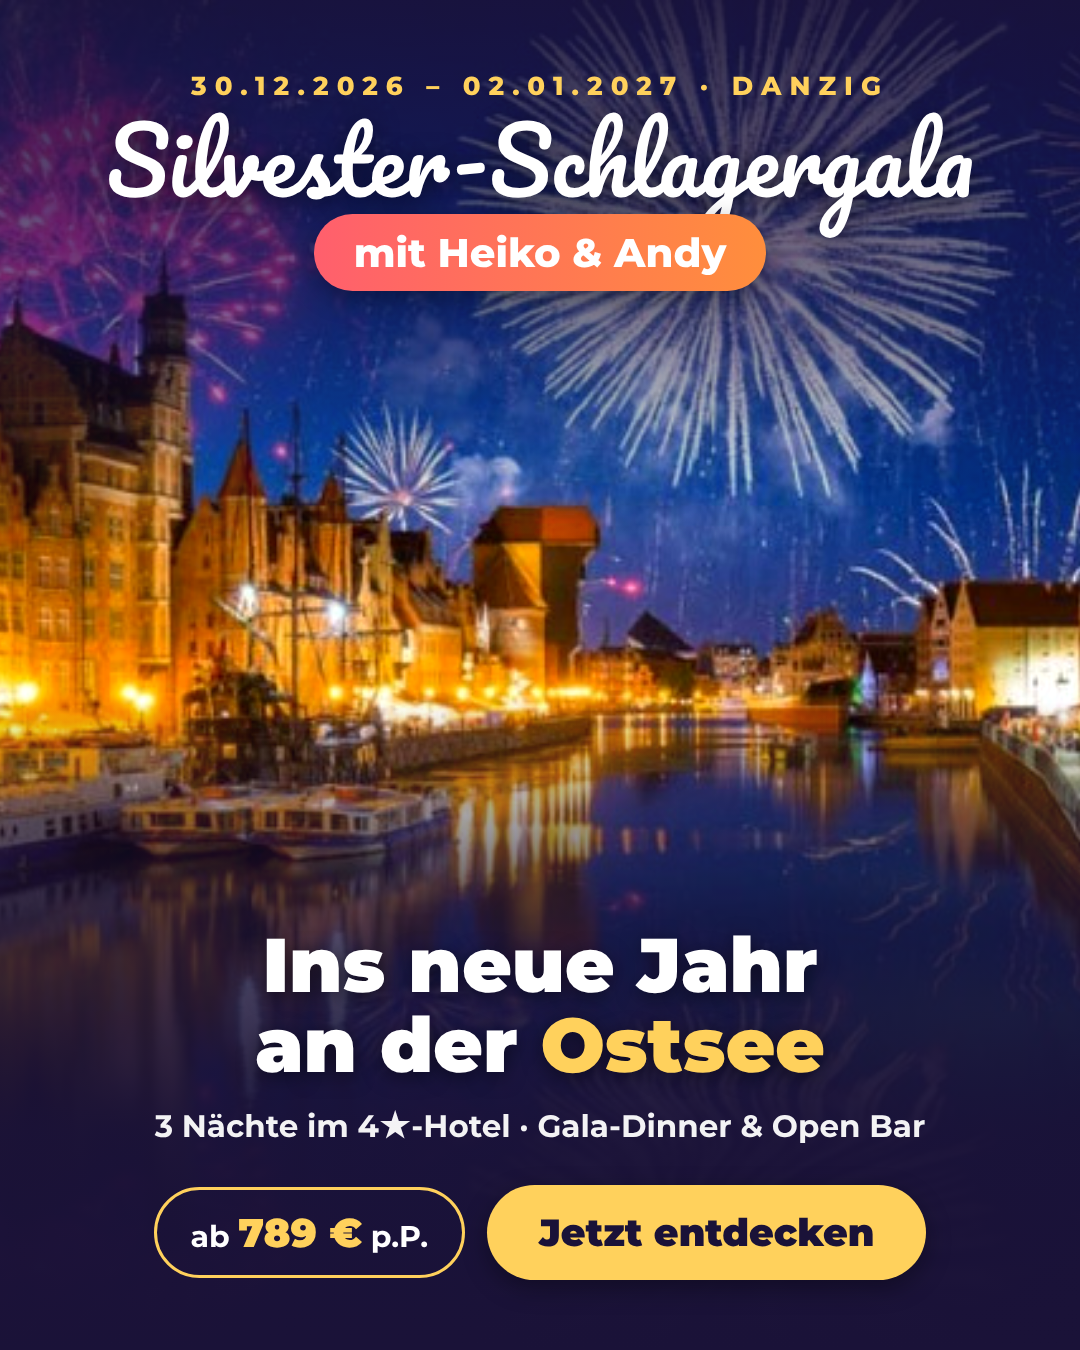
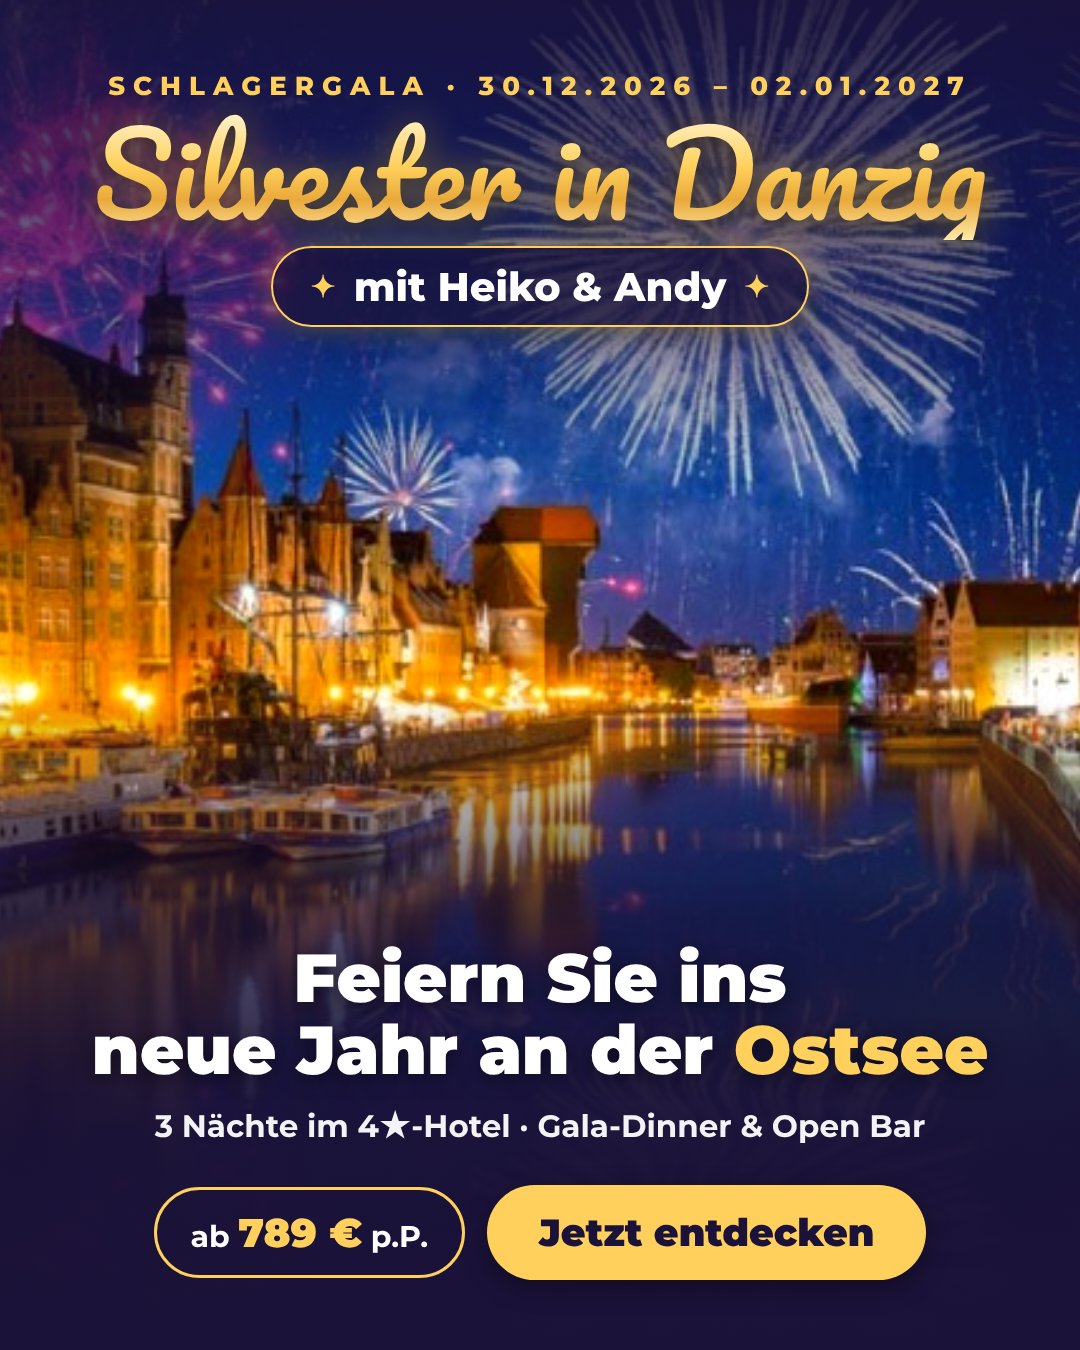
Restyle Silvester Danzig creative title and Heiko & Andy badge
Claude-Session: https://claude.ai/code/session_01MYsT5PUrxmX4pbkuNXz2ag

Changed region(s): [[0.0917, 0.0311, 0.9167, 0.2489], [0.0917, 0.6844, 0.9167, 0.8089]]

diff --git a/creatives/silvester-danzig.html b/creatives/silvester-danzig.html
@@ -8,10 +8,11 @@ body{width:1080px;height:1350px;font-family:Montserrat,sans-serif;color:#fff;ove
 .shade{position:absolute;inset:0;background:linear-gradient(180deg,rgba(26,18,56,.92) 0%,rgba(26,18,56,.55) 24%,rgba(26,18,56,0) 40%,rgba(26,18,56,0) 52%,rgba(26,18,56,.75) 68%,rgba(26,18,56,.97) 84%,#1a1238 100%)}
 .top{position:absolute;top:70px;width:100%;text-align:center}
 .kicker{color:#FFD15C;font-weight:800;font-size:26px;letter-spacing:8px}
-.title{font-family:Pacifico,cursive;font-size:90px;line-height:1.15;margin-top:6px;text-shadow:0 4px 24px rgba(0,0,0,.5)}
-.pill{display:inline-block;margin-top:2px;padding:14px 40px;border-radius:60px;background:linear-gradient(90deg,#FF5F6D,#FF8E3C);font-weight:800;font-size:40px;box-shadow:0 8px 24px rgba(0,0,0,.35)}
+.title{font-family:Pacifico,cursive;font-size:112px;line-height:1.2;margin-top:4px;background:linear-gradient(180deg,#FFF6D8 0%,#FFD15C 45%,#E9A93A 70%,#FFE9A8 100%);-webkit-background-clip:text;background-clip:text;color:transparent;filter:drop-shadow(0 0 18px rgba(255,209,92,.45)) drop-shadow(0 4px 10px rgba(0,0,0,.6))}
+.pill{display:inline-flex;align-items:center;gap:18px;margin-top:6px;padding:14px 38px;border-radius:60px;border:2px solid #FFD15C;background:rgba(26,18,56,.72);font-weight:800;font-size:40px;color:#fff;box-shadow:0 0 28px rgba(255,209,92,.35),0 8px 24px rgba(0,0,0,.35)}
+.pill i{font-style:normal;color:#FFD15C;font-size:30px}
 .bottom{position:absolute;bottom:70px;width:100%;text-align:center}
-.h{font-weight:900;font-size:76px;line-height:1.05;text-shadow:0 4px 20px rgba(0,0,0,.5)}
+.h{font-weight:900;font-size:68px;line-height:1.05;text-shadow:0 4px 20px rgba(0,0,0,.5)}
 .h span{color:#FFD15C}
 .sub{font-weight:700;font-size:31px;margin-top:22px;opacity:.95}
 .row{display:flex;justify-content:center;align-items:center;gap:22px;margin-top:40px}
@@ -22,12 +23,12 @@ body{width:1080px;height:1350px;font-family:Montserrat,sans-serif;color:#fff;ove
 <img class="bg" src="danzig-bg.jpg">
 <div class="shade"></div>
 <div class="top">
-  <div class="kicker">30.12.2026 – 02.01.2027 · DANZIG</div>
-  <div class="title">Silvester-Schlagergala</div>
-  <div class="pill">mit Heiko &amp; Andy</div>
+  <div class="kicker">SCHLAGERGALA · 30.12.2026 – 02.01.2027</div>
+  <div class="title">Silvester in Danzig</div>
+  <div class="pill"><i>✦</i>mit Heiko &amp; Andy<i>✦</i></div>
 </div>
 <div class="bottom">
-  <div class="h">Ins neue Jahr<br>an der <span>Ostsee</span></div>
+  <div class="h">Feiern Sie ins<br>neue Jahr an der <span>Ostsee</span></div>
   <div class="sub">3 Nächte im 4★-Hotel · Gala-Dinner &amp; Open Bar</div>
   <div class="row">
     <div class="price">ab <b>789 €</b> p.P.</div>
